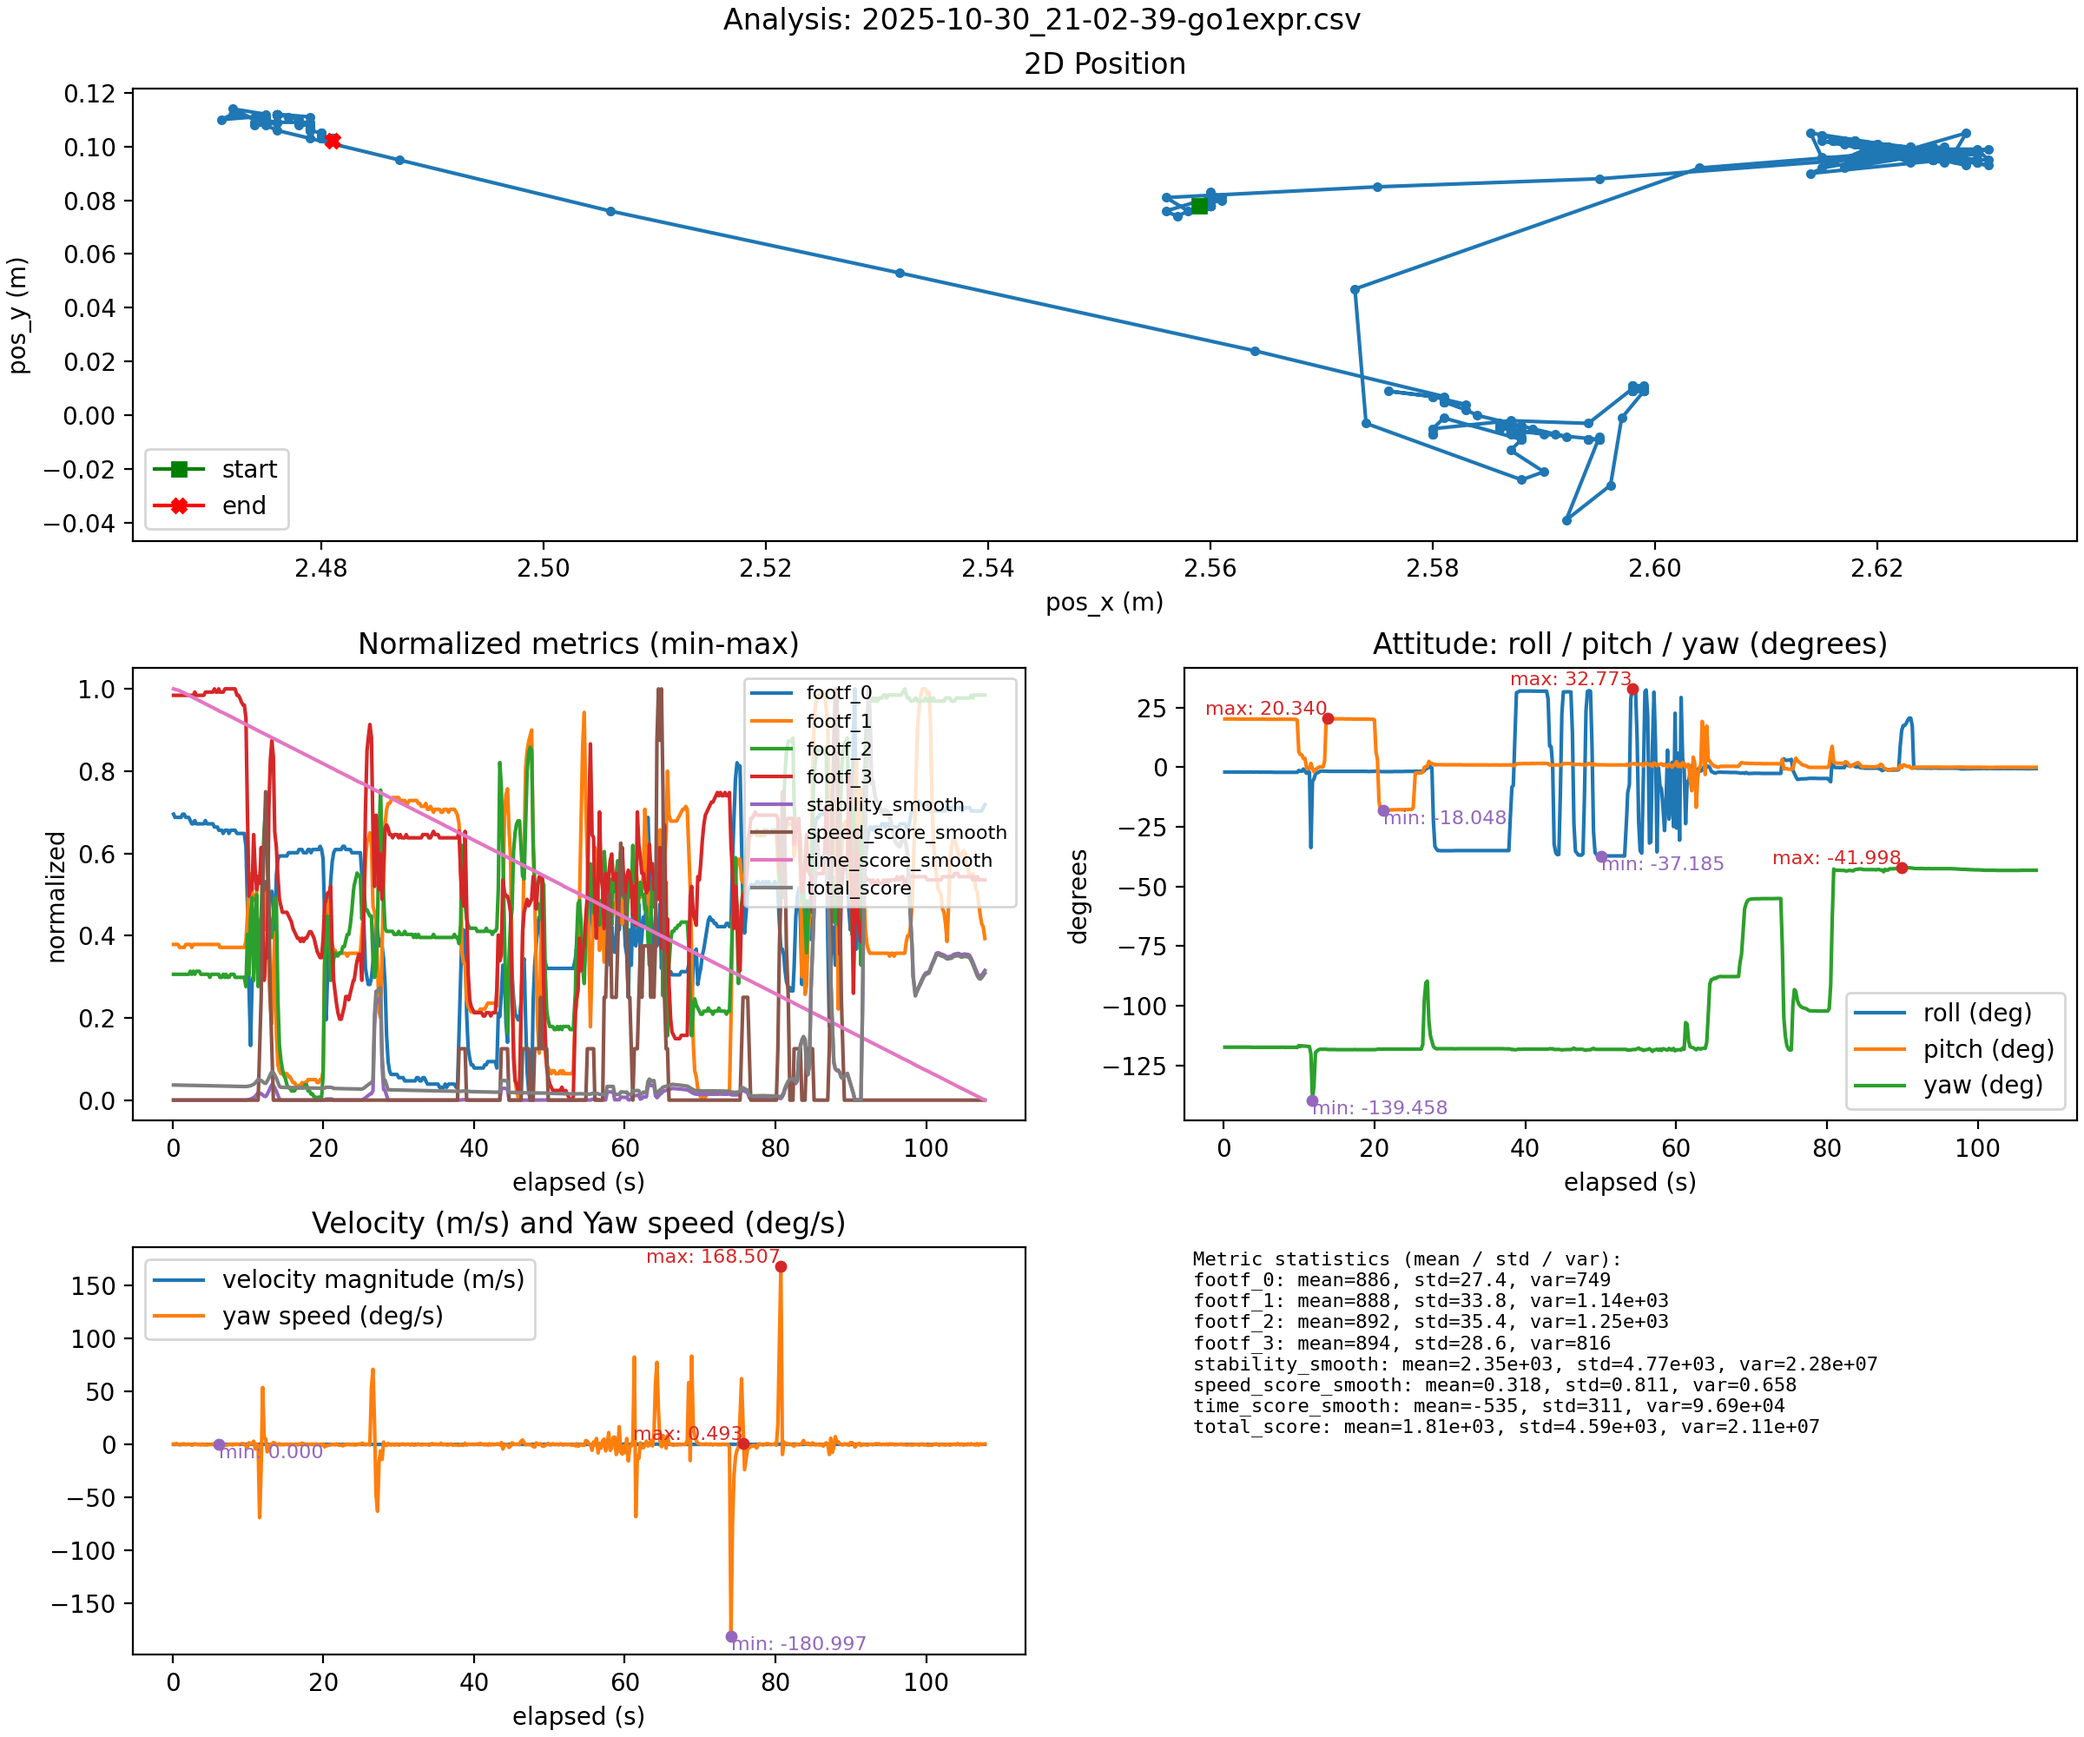
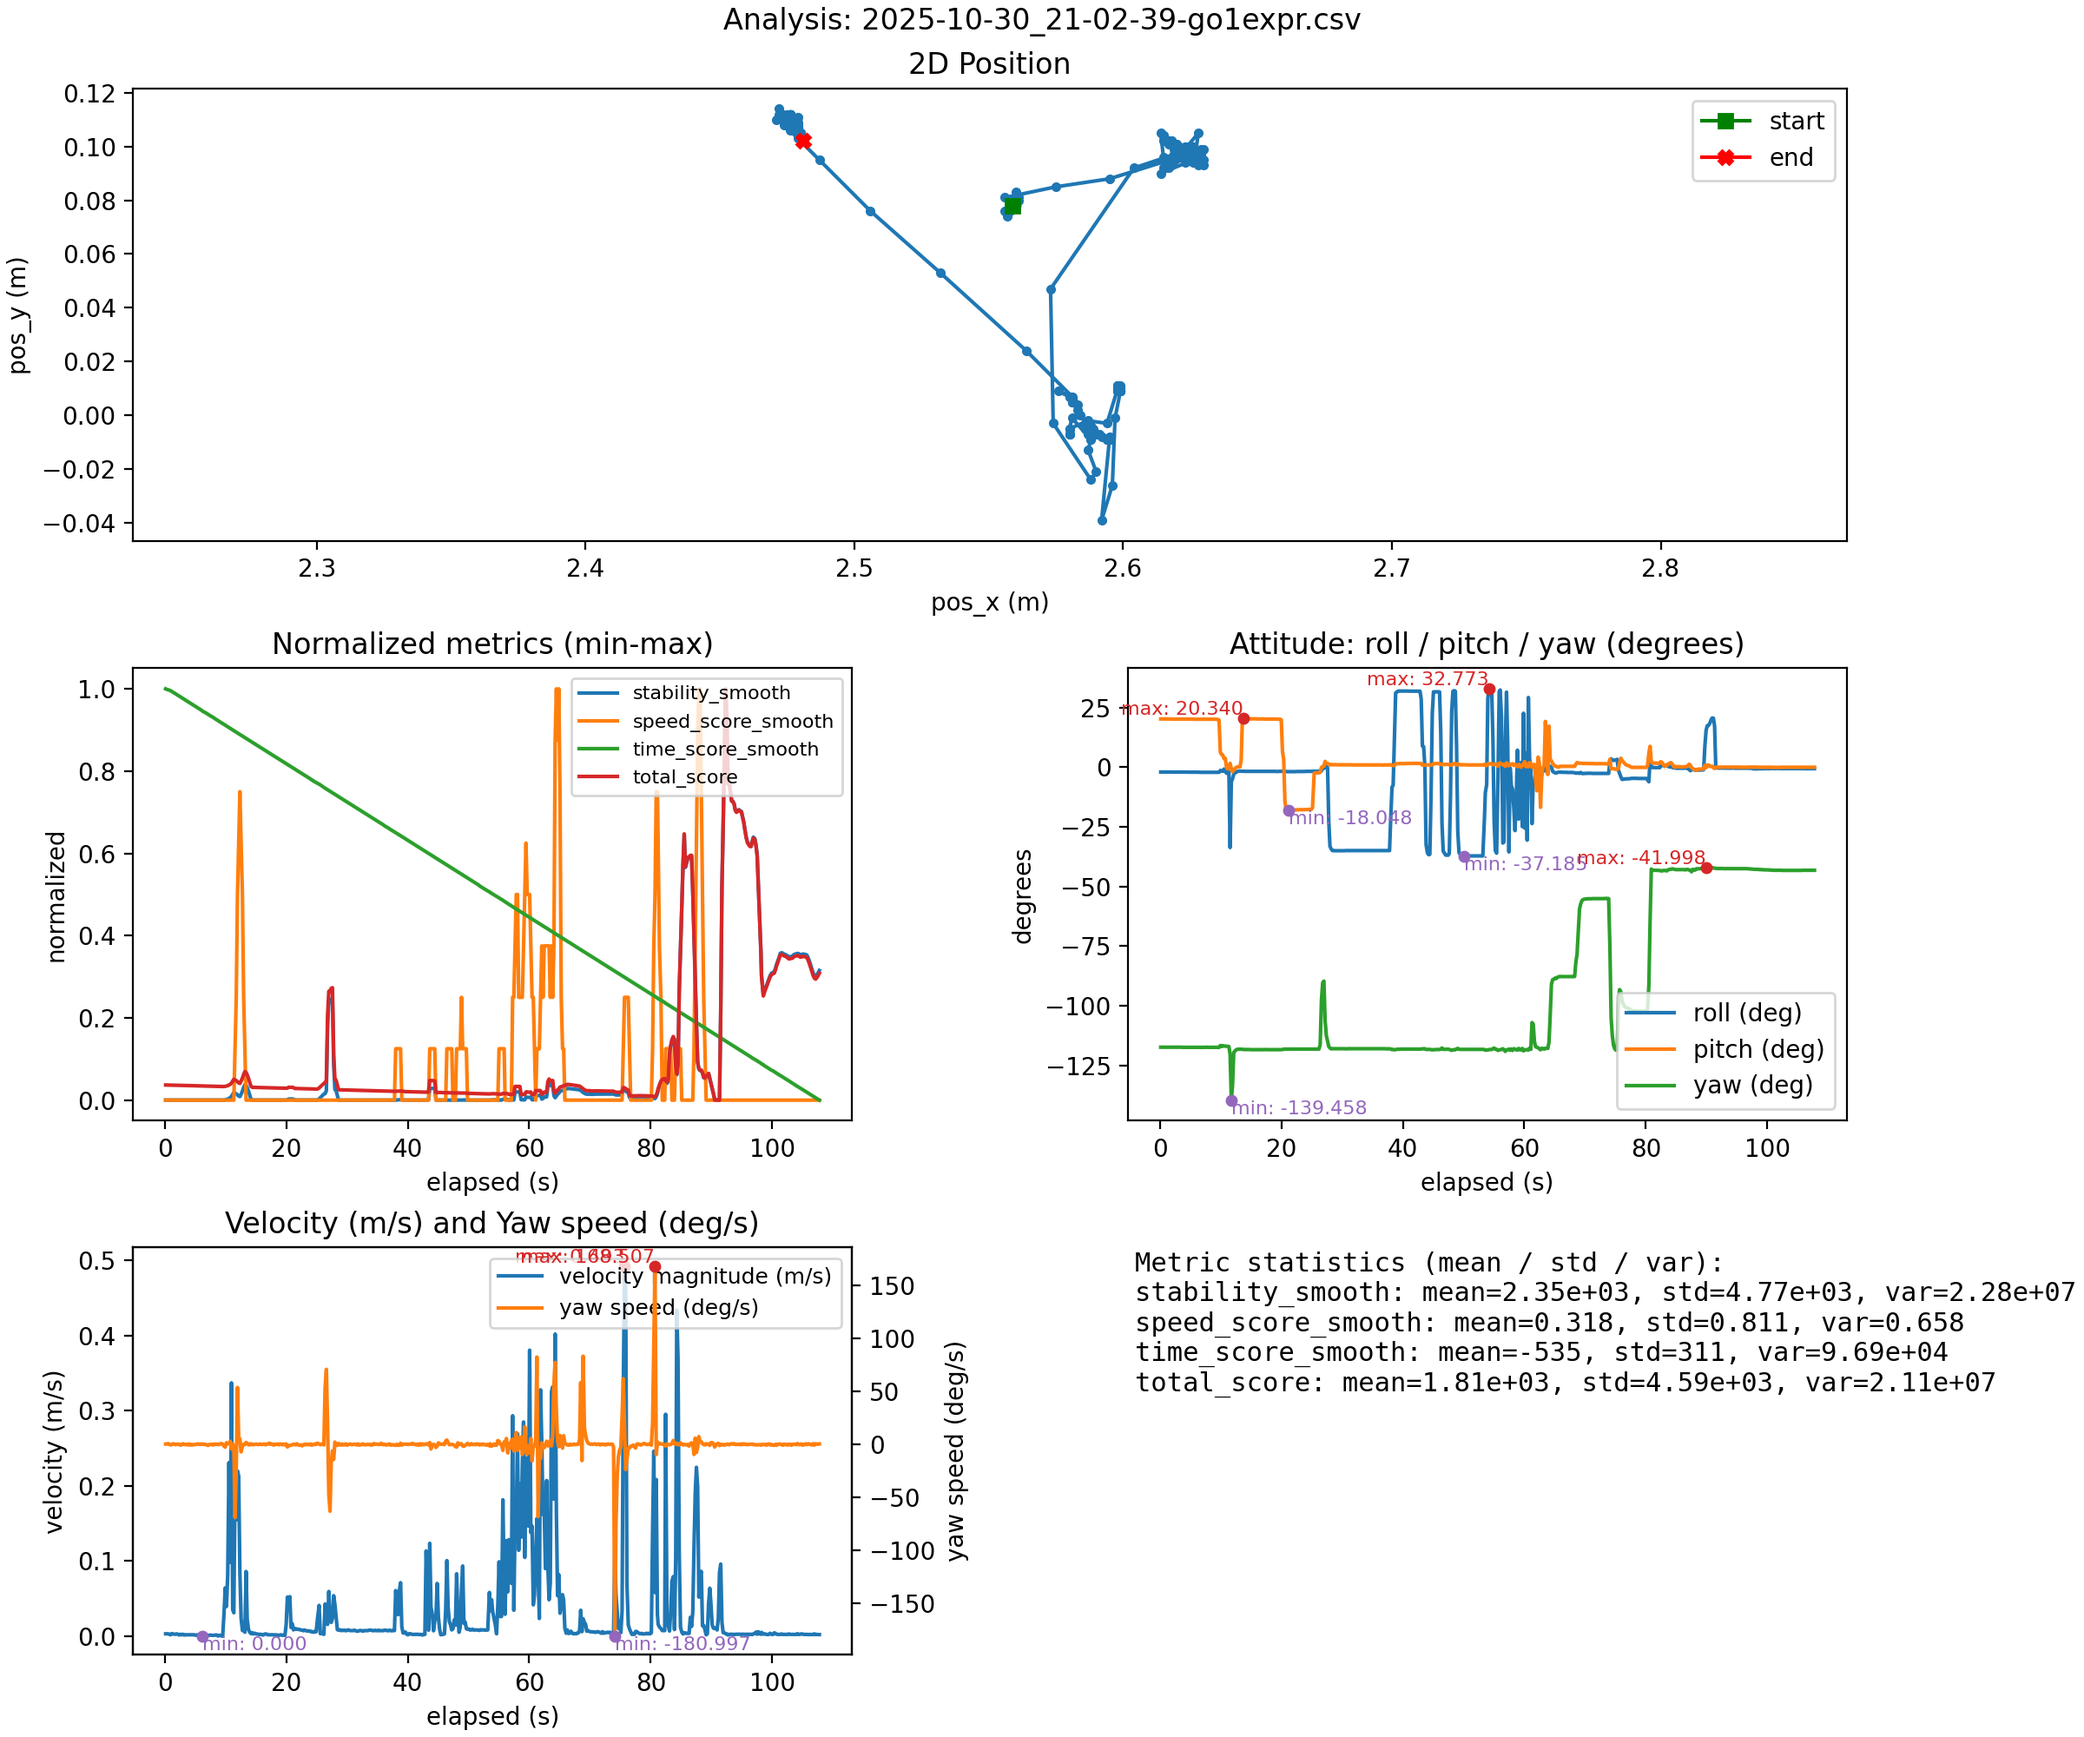
add experiment things

diff --git a/high_main.py b/high_main.py
@@ -23,6 +23,25 @@ import logging
 from datetime import datetime
 import json
 import math
+# ANSI colors for CLI
+RESET = "\033[0m"
+BOLD = "\033[1m"
+CYAN = "\033[36m"
+GREEN = "\033[32m"
+YELLOW = "\033[33m"
+MAGENTA = "\033[35m"
+RED = "\033[31m"
+
+# optional rich for prettier CLI output; fall back if not installed
+try:
+    from rich.console import Console
+    from rich.table import Table
+    from rich.panel import Panel
+    console = Console()
+    RICH_AVAILABLE = True
+except Exception:
+    console = None
+    RICH_AVAILABLE = False
 
 
 def main():
@@ -61,6 +80,8 @@ def main():
 
     # 녹화 상태
     shared_state['recording'] = False
+    # safety flag: FAIL when attitude limits exceeded
+    shared_state['fail'] = False
 
     # 화면 표시에 사용할 최근 상태
     state_queue = deque(maxlen=10)
@@ -158,7 +179,7 @@ def main():
                                 shared_state['recording'] = True
                                 print(f"Recording started -> {fpath}")
                     elif event.key == pygame.K_m:
-                        # Stop recording
+                        # Stop recording (if active) and always clear FAIL flag
                         with state_lock:
                             if shared_state.get('recording', False):
                                 shared_state['recording'] = False
@@ -174,6 +195,10 @@ def main():
                                 speed_window.clear()
                                 time_window.clear()
                                 print("Recording stopped")
+                            # Always clear FAIL flag so user can resume commands
+                            if shared_state.get('fail', False):
+                                shared_state['fail'] = False
+                                print("FAIL flag cleared - commands enabled")
 
                 elif event.type == pygame.KEYUP:
                     if event.key == pygame.K_i:
@@ -248,6 +273,8 @@ def main():
                 with state_lock:
                     if state_queue:
                         state = state_queue[-1]
+                        
+                        ## Metric 계산하는 부분
                         # compute metrics
                         roll, pitch, yaw = state.get('rpy', [0.0, 0.0, 0.0])
                         # Stability: 1 / (roll^2 + pitch^2) with small eps to avoid div0
@@ -283,19 +310,66 @@ def main():
                         pos = state.get('pos', [0.0, 0.0, 0.0])
                         foot_force = state.get('foot_force', [0, 0, 0, 0])
 
-                        print("\n" + "=" * 80)
-                        print(f"{ 'Battery':>10}: {state['battery']:6.1f}%   { 'Mode':>6}: {state['mode']:>2}   { 'Time':>6}: {elapsed:6.2f}s")
-                        print(f"{ 'Pos':>10}: {pos[0]:7.3f}, {pos[1]:7.3f}, {pos[2]:7.3f}")
-                        # also print degree equivalents next to radian values
-                        yaw_sp_deg = math.degrees(state.get('yaw_speed', 0.0))
-                        roll_deg = math.degrees(roll)
-                        pitch_deg = math.degrees(pitch)
-                        yaw_deg = math.degrees(yaw)
-                        print(f"{ 'Vel':>10}: {vx:7.3f}, {vy:7.3f}, {vz:7.3f}   YawSp: {state['yaw_speed']:7.3f} ({yaw_sp_deg:7.3f} deg/s)")
-                        print(f"{ 'Roll':>10}: {roll:7.3f} ({roll_deg:6.2f} deg)   { 'Pitch':>7}: {pitch:7.3f} ({pitch_deg:6.2f} deg)   { 'Yaw':>6}: {yaw:7.3f} ({yaw_deg:6.2f} deg)")
-                        print(f"{ 'FootF':>10}: {foot_force}   { 'Stability':>9}: {smooth_stability:8.3f}")
-                        print(f"{ 'SpeedScore':>10}: {int(round(smooth_speed_score)):6d}   { 'TimeScore':>10}: {int(round(smooth_time_score)):6d}   { 'Total':>6}: {total_score:8.2f}")
-                        print("=" * 80)
+                        # Prefer rich if available
+                        if RICH_AVAILABLE:
+                            # header / basic info
+                            table = Table.grid(expand=False)
+                            table.add_column(justify="right", style="cyan")
+                            table.add_column()
+                            table.add_row("Battery", f"[bold]{state['battery']:6.1f}%[/]")
+                            table.add_row("Mode", f"{state['mode']}")
+                            table.add_row("Time", f"{elapsed:6.2f}s")
+                            table.add_row("Pos", f"{pos[0]:7.3f}, {pos[1]:7.3f}, {pos[2]:7.3f}")
+
+                            # attitude / velocity small table
+                            att = Table.grid(expand=False)
+                            att.add_column()
+                            att.add_column()
+                            yaw_sp_deg = math.degrees(state.get('yaw_speed', 0.0))
+                            roll_deg = math.degrees(roll)
+                            pitch_deg = math.degrees(pitch)
+                            yaw_deg = math.degrees(yaw)
+                            att.add_row("Vel", f"{vx:7.3f}, {vy:7.3f}, {vz:7.3f}   YawSp: {state['yaw_speed']:7.3f} ({yaw_sp_deg:6.2f} deg/s)")
+                            att.add_row("RPY", f"Roll: {roll:7.3f} ({roll_deg:6.2f} deg), Pitch: {pitch:7.3f} ({pitch_deg:6.2f} deg), Yaw: {yaw:7.3f} ({yaw_deg:6.2f} deg)")
+
+                            # metrics table
+                            metrics_tbl = Table(title="Metrics", show_header=True, header_style="bold magenta")
+                            metrics_tbl.add_column("Metric")
+                            metrics_tbl.add_column("Value", justify="right")
+                            metrics_tbl.add_row("Stability", f"[magenta]{smooth_stability:.3f}[/]")
+                            metrics_tbl.add_row("SpeedScore", f"[yellow]{int(round(smooth_speed_score))}[/]")
+                            metrics_tbl.add_row("TimeScore", f"[cyan]{int(round(smooth_time_score))}[/]")
+                            total_style = "green" if total_score >= 0 else "red"
+                            metrics_tbl.add_row("Total", f"[{total_style}]{total_score:.2f}[/{total_style}]")
+
+                            console.rule("Status")
+                            console.print(table)
+                            console.print(att)
+                            console.print(metrics_tbl)
+                            console.rule()
+                        else:
+                            # fallback to previous ANSI colored prints
+                            print("\n" + BOLD + CYAN + "=" * 80 + RESET)
+                            print(f"{CYAN}{'Battery':>10}{RESET}: {BOLD}{state['battery']:6.1f}%{RESET}   {CYAN}{'Mode':>6}{RESET}: {state['mode']:>2}   {CYAN}{'Time':>6}{RESET}: {elapsed:6.2f}s")
+                            print(f"{CYAN}{'Pos':>10}{RESET}: {pos[0]:7.3f}, {pos[1]:7.3f}, {pos[2]:7.3f}")
+                            yaw_sp_deg = math.degrees(state.get('yaw_speed', 0.0))
+                            roll_deg = math.degrees(roll)
+                            pitch_deg = math.degrees(pitch)
+                            yaw_deg = math.degrees(yaw)
+                            print(f"{ 'Vel':>10}: {vx:7.3f}, {vy:7.3f}, {vz:7.3f}   YawSp: {state['yaw_speed']:7.3f} ({yaw_sp_deg:7.3f} deg/s)")
+                            print(f"{ 'Roll':>10}: {roll:7.3f} ({roll_deg:6.2f} deg)   { 'Pitch':>7}: {pitch:7.3f} ({pitch_deg:6.2f} deg)   { 'Yaw':>6}: {yaw:7.3f} ({yaw_deg:6.2f} deg)")
+                            # colored metric outputs
+                            stability_col = MAGENTA
+                            speed_col = YELLOW
+                            time_col = CYAN
+                            total_col = GREEN if total_score >= 0 else RED
+                            stab_str = f"{stability_col}{smooth_stability:8.3f}{RESET}"
+                            speed_str = f"{speed_col}{int(round(smooth_speed_score)):6d}{RESET}"
+                            time_str = f"{time_col}{int(round(smooth_time_score)):6d}{RESET}"
+                            total_str = f"{total_col}{total_score:8.2f}{RESET}"
+                            print(f"{CYAN}{'FootF':>10}{RESET}: {foot_force}   {CYAN}{'Stability':>9}{RESET}: {stab_str}")
+                            print(f"{CYAN}{'SpeedScore':>10}{RESET}: {speed_str}   {CYAN}{'TimeScore':>10}{RESET}: {time_str}   {CYAN}{'Total':>6}{RESET}: {total_str}")
+                            print("=" * 80)
 
                         # CSV 기록 (recording 중일 때)
                         if shared_state.get('recording', False) and csv_writer:
@@ -315,6 +389,23 @@ def main():
                                 csv_fp.flush()
                             except Exception as e:
                                 logging.error(f"Error writing CSV: {e}")
+                            # Safety check: if roll/pitch exceed thresholds -> FAIL
+                            # thresholds are in degrees per user request
+                            try:
+                                # pitch fail if >20 or < -18
+                                if pitch_deg > 20.0 or pitch_deg < -18.0:
+                                    if not shared_state.get('fail', False):
+                                        shared_state['fail'] = True
+                                        logging.warning(f"FAIL: pitch out of bounds: {pitch_deg:.2f} deg")
+                                        print(f"*** FAIL: pitch out of bounds: {pitch_deg:.2f} deg -> commands disabled")
+                                # roll fail if < -35 or > 31
+                                if roll_deg < -35.0 or roll_deg > 31.0:
+                                    if not shared_state.get('fail', False):
+                                        shared_state['fail'] = True
+                                        logging.warning(f"FAIL: roll out of bounds: {roll_deg:.2f} deg")
+                                        print(f"*** FAIL: roll out of bounds: {roll_deg:.2f} deg -> commands disabled")
+                            except Exception:
+                                pass
             except Exception as e:
                 logging.error(f"display_state error: {e}")
             time.sleep(0.2)

diff --git a/scripts/analyze_go1expr.py b/scripts/analyze_go1expr.py
@@ -159,18 +159,28 @@ def main():
     else:
         ax_metrics.text(0.5, 0.5, 'No metric columns found', ha='center', va='center')
 
-    # Attitude: roll, pitch, yaw (degrees)
-    ax_att.plot(t, roll_deg, label='roll (deg)')
-    ax_att.plot(t, pitch_deg, label='pitch (deg)')
-    ax_att.plot(t, yaw_deg, label='yaw (deg)')
-    ax_att.set_title('Attitude: roll / pitch / yaw (degrees)')
-    ax_att.set_xlabel('elapsed (s)')
-    ax_att.set_ylabel('degrees')
-    ax_att.legend()
-    # annotate extrema on each series
-    annotate_extrema(ax_att, t, pd.Series(roll_deg, index=df.index), label_prefix='')
-    annotate_extrema(ax_att, t, pd.Series(pitch_deg, index=df.index), label_prefix='')
-    annotate_extrema(ax_att, t, pd.Series(yaw_deg, index=df.index), label_prefix='')
+    # Attitude: roll & pitch on left axis, yaw on right axis (separate scale)
+    ax_att_left = ax_att
+    ax_att_right = ax_att.twinx()
+
+    ax_att_left.plot(t, roll_deg, label='roll (deg)', color='C0')
+    ax_att_left.plot(t, pitch_deg, label='pitch (deg)', color='C2')
+    ax_att_right.plot(t, yaw_deg, label='yaw (deg)', color='C1')
+
+    ax_att_left.set_title('Attitude: roll / pitch (left) and yaw (right)')
+    ax_att_left.set_xlabel('elapsed (s)')
+    ax_att_left.set_ylabel('roll / pitch (deg)')
+    ax_att_right.set_ylabel('yaw (deg)')
+
+    # combined legend
+    lines_left, labels_left = ax_att_left.get_legend_handles_labels()
+    lines_right, labels_right = ax_att_right.get_legend_handles_labels()
+    ax_att_left.legend(lines_left + lines_right, labels_left + labels_right, loc='upper right', fontsize=9)
+
+    # annotate extrema on respective axes
+    annotate_extrema(ax_att_left, t, pd.Series(roll_deg, index=df.index), label_prefix='')
+    annotate_extrema(ax_att_left, t, pd.Series(pitch_deg, index=df.index), label_prefix='')
+    annotate_extrema(ax_att_right, t, pd.Series(yaw_deg, index=df.index), label_prefix='')
 
     # Velocity and yaw speed: use twin y-axis because yaw (deg/s) scale differs
     ax_vel_left = ax_vel
